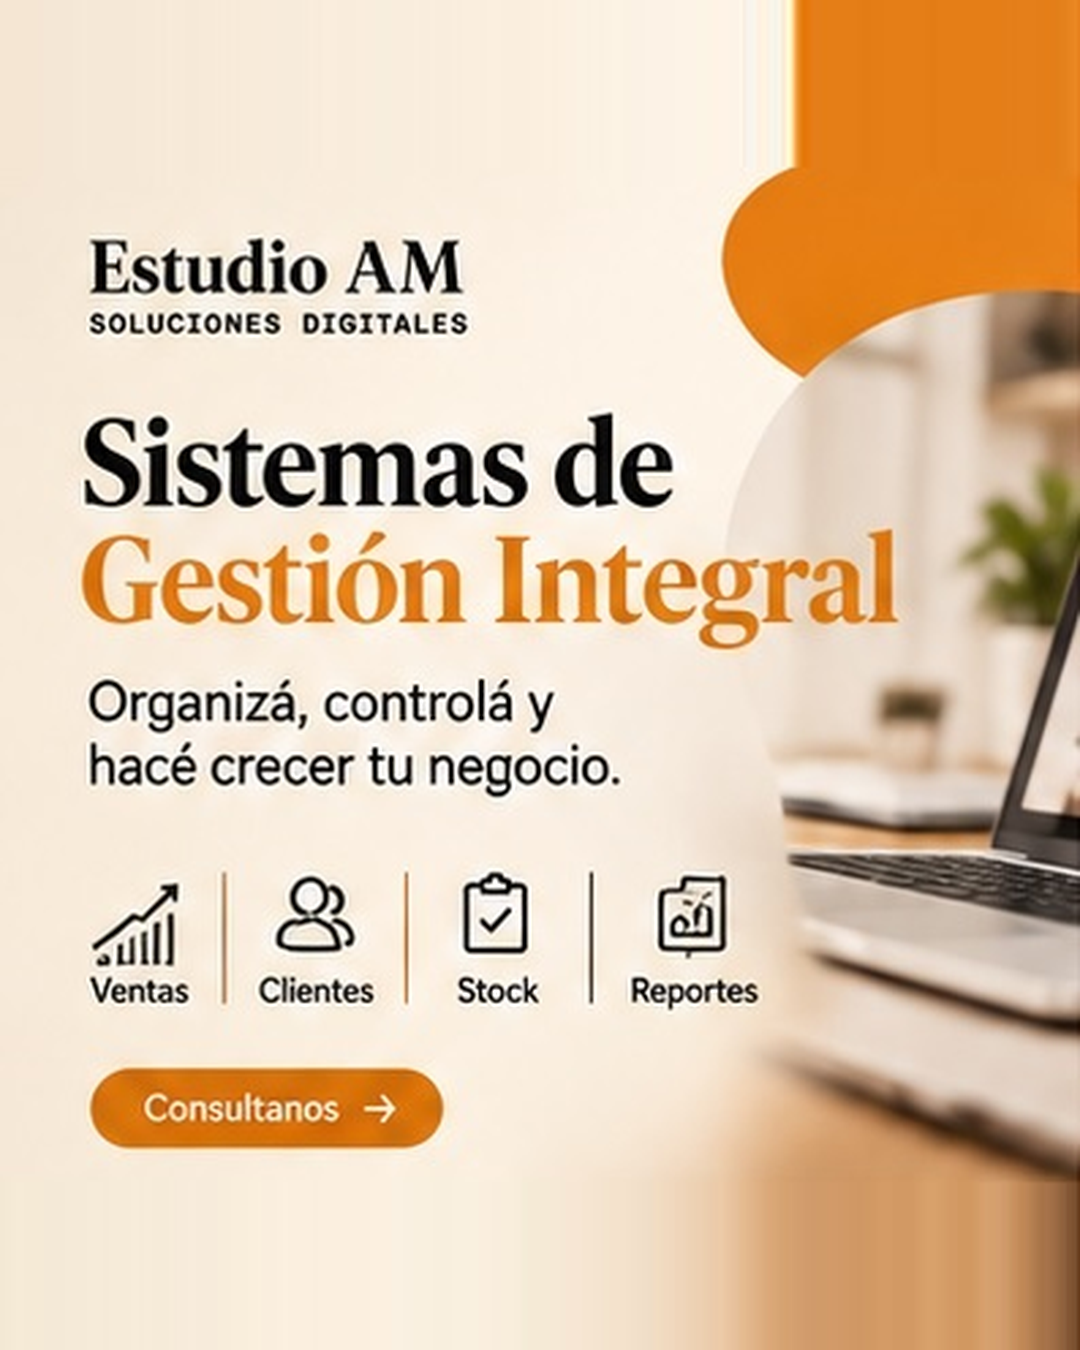
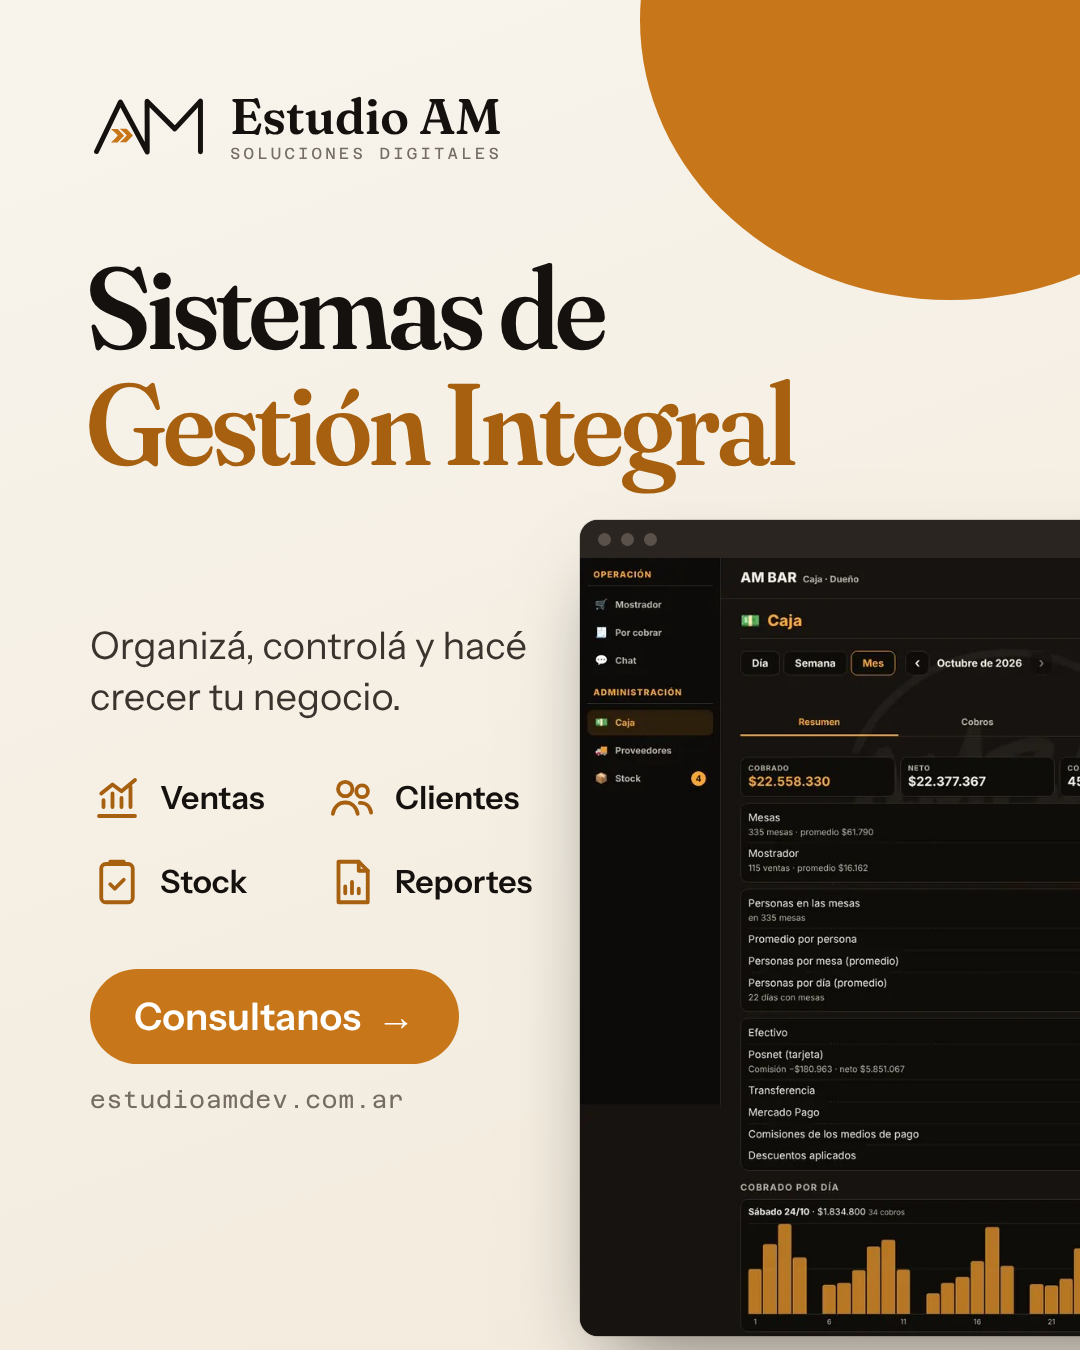
Instagram 'Sistemas de Gestión Integral': rehecha en alta, con la caja real de Sistema AMBAR
Claude-Session: https://claude.ai/code/session_017mEGFx6s2jDAYU45fQz8RP

diff --git a/piezas/instagram-gestion.html b/piezas/instagram-gestion.html
@@ -1,0 +1,36 @@
+<!doctype html><html lang="es"><head><meta charset="utf-8">
+<link href="https://fonts.googleapis.com/css2?family=Fraunces:ital,opsz,wght,SOFT,WONK@0,9..144,400..700,50,1;1,9..144,400..600,50,1&family=Instrument+Sans:wght@400;500;600&family=Azeret+Mono:wght@400;500&display=block" rel="stylesheet">
+<style>
+*{box-sizing:border-box;margin:0;padding:0}
+body{width:1080px;height:1350px;overflow:hidden;position:relative;font-family:'Instrument Sans',sans-serif;color:#14110F;background:linear-gradient(160deg,#F8F4EC 0%,#F2EADC 100%)}
+.blob{position:absolute;right:-180px;top:-260px;width:620px;height:560px;border-radius:50%;background:#C8761A}
+.brand{position:absolute;left:90px;top:90px;display:flex;align-items:center;gap:22px}
+.brand .mark{height:62px;width:118px}
+.brand b{display:block;font-family:'Fraunces',serif;font-weight:600;font-size:50px;line-height:1.05}
+.brand i{font-style:normal;font-family:'Azeret Mono',monospace;font-size:16px;letter-spacing:.2em;text-transform:uppercase;color:#756C64}
+h1{position:absolute;left:86px;top:250px;font-family:'Fraunces',serif;font-weight:600;font-size:116px;line-height:1.0;letter-spacing:-.025em}
+h1 span{color:#A6600F}
+.left{position:absolute;left:90px;top:620px;width:450px}
+.sub{font-size:38px;line-height:1.35;color:#3A332E}
+.grid{margin-top:48px;display:grid;grid-template-columns:1fr 1fr;gap:30px 20px}
+.ic{display:flex;align-items:center;gap:16px;font-size:32px;font-weight:600}
+.ic svg{width:54px;height:54px;fill:none;stroke:#A6600F;stroke-width:1.7;stroke-linecap:round;stroke-linejoin:round;flex:none}
+.btn{margin-top:60px;display:inline-flex;align-items:center;gap:16px;background:#C8761A;color:#fff;font-weight:600;font-size:38px;padding:24px 44px;border-radius:999px}
+.url{margin-top:22px;font-family:'Azeret Mono',monospace;font-size:24px;letter-spacing:.04em;color:#756C64}
+.win{position:absolute;left:580px;top:520px;width:640px;border-radius:18px;overflow:hidden;background:#1d1916;box-shadow:0 40px 80px -30px rgba(20,17,15,.55),0 0 0 1px rgba(20,17,15,.15)}
+.bar{height:38px;display:flex;align-items:center;gap:10px;padding-left:18px;background:#2a2521}
+.bar i{width:13px;height:13px;border-radius:50%;background:#5a514a}
+.win img{display:block;width:100%}
+.tag{position:absolute;left:600px;top:1300px;font-family:'Azeret Mono',monospace;font-size:18px;letter-spacing:.14em;text-transform:uppercase;color:#756C64}
+</style></head><body>
+<div class="blob"></div>
+<div class="brand"><svg class="mark" viewBox="0 26 190 100"><path d="M 10.422337,117.11416 48.820421,37.300995 92.1554,117.93697 91.881131,36.203908 136.58747,80.635977 178.00255,35.929636 V 117.6627" fill="none" stroke="#14110F" stroke-width="8" stroke-linecap="round" stroke-linejoin="round"/><polygon points="37.00,81.00 44.67,91.00 37.00,101.00 41.83,101.00 48.50,91.00 41.83,81.00" fill="#C8761A"/><polygon points="56.33,101 63,91 56.33,81 51.5,81 59.17,91 51.5,101 " fill="#c8761a" transform="matrix(1.3851412,0,0,0.97306171,-34.373503,2.997782)" style="stroke:#c8761a;stroke-width:2.41402;stroke-dasharray:none;stroke-opacity:1"/><polygon points="51.50,81.00 59.17,91.00 51.50,101.00 56.33,101.00 63.00,91.00 56.33,81.00" fill="#C8761A"/><polygon points="56.33,101 63,91 56.33,81 51.5,81 59.17,91 51.5,101 " fill="#c8761a" transform="matrix(1.3851412,0,0,0.97306171,-20.089239,2.6035349)" style="stroke:#c8761a;stroke-width:2.41402;stroke-dasharray:none;stroke-opacity:1"/></svg><div><b>Estudio AM</b><i>Soluciones digitales</i></div></div>
+<h1>Sistemas de<br><span>Gestión Integral</span></h1>
+<div class="left">
+<p class="sub">Organizá, controlá y hacé crecer tu negocio.</p>
+<div class="grid"><div class="ic"><svg viewBox="0 0 24 24"><path d="M4 20h16M6 16v-3M10 16v-6M14 16v-4M18 16V7M5 10l5-4 4 3 6-5"/></svg><span>Ventas</span></div><div class="ic"><svg viewBox="0 0 24 24"><circle cx="9" cy="8" r="3.2"/><path d="M3.5 19c.6-3.2 2.8-5 5.5-5s4.9 1.8 5.5 5"/><circle cx="16.5" cy="9" r="2.6"/><path d="M15.5 14.2c2.4-.3 4.4 1.3 5 4.3"/></svg><span>Clientes</span></div><div class="ic"><svg viewBox="0 0 24 24"><rect x="5" y="4" width="14" height="17" rx="2"/><path d="M9 4V3h6v1M9 13l2 2 4-4"/></svg><span>Stock</span></div><div class="ic"><svg viewBox="0 0 24 24"><path d="M6 3h9l4 4v14H6z"/><path d="M15 3v4h4M9 17v-3M12 17v-5M15 17v-2"/></svg><span>Reportes</span></div></div>
+<div class="btn">Consultanos <span>→</span></div>
+<p class="url">estudioamdev.com.ar</p>
+</div>
+<div class="win"><div class="bar"><i></i><i></i><i></i></div><img src="fotos-perfil/ambar-admin.jpg"></div>
+</body></html>
